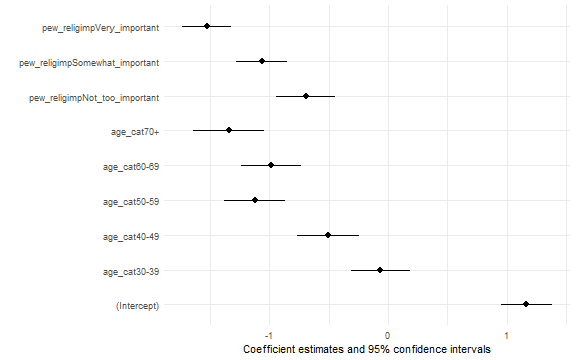
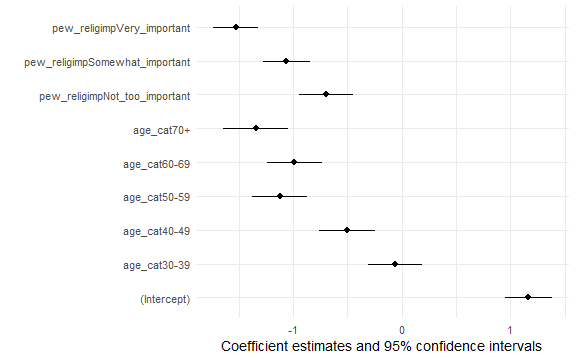
complete slides

diff --git a/slides/mrp-slides.html b/slides/mrp-slides.html
@@ -452,11 +452,9 @@ names(ces_sample)
 model1 &lt;- glm(defund_police ~ age_cat + pew_religimp,
               family = 'binomial',
               data = ces_sample)
-
-modelplot(model1)
 ```
 
-&lt;img src="mrp-slides_files/figure-html/unnamed-chunk-12-1.png" width="600" style="display: block; margin: auto;" /&gt;
+&lt;img src="mrp-slides_files/figure-html/unnamed-chunk-13-1.png" width="600" style="display: block; margin: auto;" /&gt;
 
 ---
 
@@ -469,26 +467,31 @@ First, create a *poststratification frame*, which counts every possible combinat
 psframe &lt;- ces |&gt; 
   count(abb, age_cat, pew_religimp)
 
-head(psframe)
+psframe
 ```
 
 ```
-# A tibble: 6 x 4
-  abb   age_cat pew_religimp             n
-  &lt;chr&gt; &lt;chr&gt;   &lt;chr&gt;                &lt;int&gt;
-1 AL    18-29   Not_at_all_important    35
-2 AL    18-29   Not_too_important       30
-3 AL    18-29   Somewhat_important      70
-4 AL    18-29   Very_important          70
-5 AL    30-39   Not_at_all_important    36
-6 AL    30-39   Not_too_important       19
+# A tibble: 1,150 x 4
+   abb   age_cat pew_religimp             n
+   &lt;chr&gt; &lt;chr&gt;   &lt;chr&gt;                &lt;int&gt;
+ 1 AL    18-29   Not_at_all_important    35
+ 2 AL    18-29   Not_too_important       30
+ 3 AL    18-29   Somewhat_important      70
+ 4 AL    18-29   Very_important          70
+ 5 AL    30-39   Not_at_all_important    36
+ 6 AL    30-39   Not_too_important       19
+ 7 AL    30-39   Somewhat_important      34
+ 8 AL    30-39   Very_important          82
+ 9 AL    40-49   Not_at_all_important    29
+10 AL    40-49   Not_too_important       13
+# ... with 1,140 more rows
 ```
 
 --
 
-**NOTE**: For most applications, you will want to compute the poststratification frame from census data, not survey data.
-
 ???
+
+**NOTE**: For most applications, you will want to compute the poststratification frame from census data, not survey data.
 
 Because you want to know the composition of the general population, not just the composition of your survey sample.
 
@@ -502,19 +505,24 @@ Next, we estimate the probability that each group in the poststratification fram
 ```r
 psframe$predicted_probability &lt;- predict(model1, psframe, type = 'response')
 
-head(psframe)
+psframe
 ```
 
 ```
-# A tibble: 6 x 5
-  abb   age_cat pew_religimp             n predicted_probability
-  &lt;chr&gt; &lt;chr&gt;   &lt;chr&gt;                &lt;int&gt;                 &lt;dbl&gt;
-1 AL    18-29   Not_at_all_important    35                 0.762
-2 AL    18-29   Not_too_important       30                 0.615
-3 AL    18-29   Somewhat_important      70                 0.526
-4 AL    18-29   Very_important          70                 0.411
-5 AL    30-39   Not_at_all_important    36                 0.750
-6 AL    30-39   Not_too_important       19                 0.600
+# A tibble: 1,150 x 5
+   abb   age_cat pew_religimp             n predicted_probability
+   &lt;chr&gt; &lt;chr&gt;   &lt;chr&gt;                &lt;int&gt;                 &lt;dbl&gt;
+ 1 AL    18-29   Not_at_all_important    35                 0.762
+ 2 AL    18-29   Not_too_important       30                 0.615
+ 3 AL    18-29   Somewhat_important      70                 0.526
+ 4 AL    18-29   Very_important          70                 0.411
+ 5 AL    30-39   Not_at_all_important    36                 0.750
+ 6 AL    30-39   Not_too_important       19                 0.600
+ 7 AL    30-39   Somewhat_important      34                 0.510
+ 8 AL    30-39   Very_important          82                 0.395
+ 9 AL    40-49   Not_at_all_important    29                 0.660
+10 AL    40-49   Not_too_important       13                 0.492
+# ... with 1,140 more rows
 ```
 
 ---
@@ -548,7 +556,7 @@ head(mrp)
 
 # Compare MRP and Sample Means
 
-&lt;img src="mrp-slides_files/figure-html/unnamed-chunk-16-1.png" width="800" style="display: block; margin: auto;" /&gt;
+&lt;img src="mrp-slides_files/figure-html/unnamed-chunk-17-1.png" width="800" style="display: block; margin: auto;" /&gt;
 
 ---
 
@@ -562,8 +570,40 @@ class: center, middle, inverse
 
 
 ```r
-model2 &lt;- glm(defund_police ~ age_cat + pew_religimp + gender + race + abb, data = ces_sample)
+model2 &lt;- glm(defund_police ~ age_cat + pew_religimp + gender +
+                race + urban + abb + 
+                biden_vote_share +
+                homicide_rate, 
+              data = ces_sample)
 ```
+
+---
+
+# Why not make the model even better??
+
+
+```r
+psframe &lt;- ces |&gt; 
+  count(abb, age_cat, pew_religimp, 
+        gender, race, urban,
+        biden_vote_share, homicide_rate)
+
+psframe$predicted_probability &lt;- predict(model2, psframe, type = 'response')
+
+mrp2 &lt;- psframe |&gt; 
+  group_by(abb) |&gt; 
+  summarize(estimate = weighted.mean(predicted_probability, n))
+```
+
+---
+
+# Why not make the model even better??
+
+&lt;img src="mrp-slides_files/figure-html/unnamed-chunk-20-1.png" width="800" style="display: block; margin: auto;" /&gt;
+
+--
+
+Wait. What happened?
 
 ---
 
@@ -578,37 +618,99 @@ class: center, middle, inverse
 --
 
 - A model with too few parameters will not accurately predict the outcome. 
+
   - Such a model is *underfit*.
   
 --
   
 - But a model with too many parameters is a problem as well.
-  - It captures so much in-sample variation that it fails fails to borrow information from across groups. 
+
+  - It captures so much in-sample variation that it fails fails to serve its purpose: borrowing information from one group to make inferences about another. 
+  
   - Such a model is *overfit*. 
 
 --
 
 To make good predictions, you want a model that is between these two extremes!
 
+???
+
+The reason why we fit a model in the first place was so we could learn something about North Dakota from the people in South Dakota. But if North Dakota and South Dakota both have their own individual parameters, that's the model's way of saying "North Dakota and South Dakota are different entities, and I can't learn anything about South Dakota from North Dakota, or vice versa". 
+
 ---
 
 class: center, middle, inverse
 
-
+# Regularization
 
 ---
+
+# Regularization
+
+--
+
+- Regularization is the process of making your models a bit *worse* at fitting your data, so they avoid overfitting and do a better job at predicting out of sample.
+
+--
+
+- One approach to regularization is [multilevel modeling](https://bookdown.org/jl5522/MRP-case-studies/).
+
+--
+
+- ...but I'm going to show you LASSO, because it's slightly easier to grasp in a single lecture. 
+
+---
+
+## Fit a regularized model
+
+
+```r
+library(tidymodels)
+
+model3 &lt;- logistic_reg(penalty = 0.01, mixture = 1) |&gt;
+  set_engine('glmnet') |&gt;
+  fit(formula = factor(defund_police) ~ age_cat + 
+        pew_religimp + gender +
+                race + urban + abb + 
+                biden_vote_share +
+                homicide_rate,
+      data = ces_sample)
+```
+
+---
+
+## Poststratify the Regularized Model
+
+
+```r
+psframe &lt;- psframe |&gt; 
+  bind_cols(predict(model3, psframe, type = 'prob'))
+
+mrp3 &lt;- psframe |&gt; 
+  group_by(abb) |&gt; 
+  summarize(estimate = weighted.mean(.pred_1, n))
+```
+
+---
+
+## Compare Sample Means with Estimates from Regularized Model
+
+&lt;img src="mrp-slides_files/figure-html/unnamed-chunk-23-1.png" width="800" style="display: block; margin: auto;" /&gt;
+
+---
+
 
 class: inverse, center, middle
 
-# Refinements
+# Extensions
 
 ---
 
-# Refinements
+# Extensions
 
-1. More complex first stage models
+1. Stacked Regression and Poststratification (Ornstein, 2020)
 
-2. Synthetic poststratification
+2. Synthetic poststratification (Leemann &amp; Wasserfallen, 2017)
 
 
 ---
